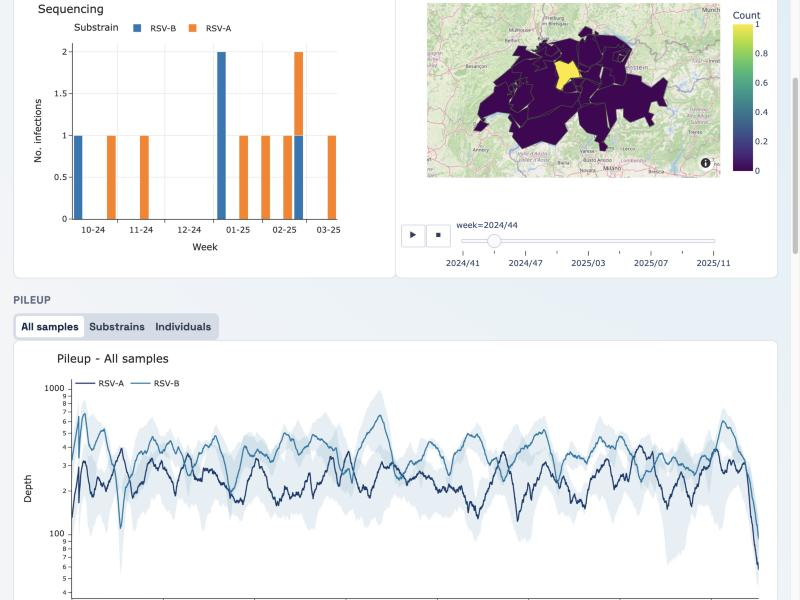
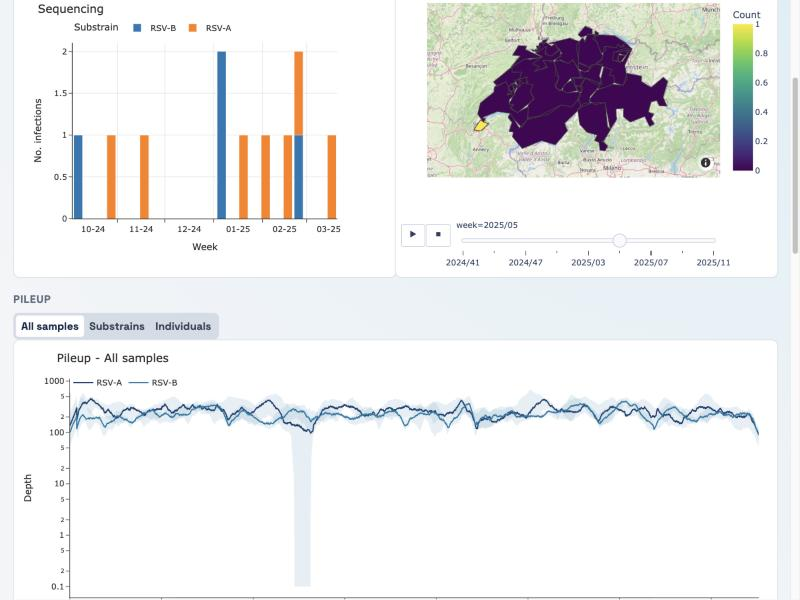
Tutorial website: add Codespaces buttons, hide localhost preview
- The dashboard preview in Part 2 points to 127.0.0.1, which only works
  while the notebook runs; its output is now removed from the website.
- Each notebook and the start page explain that the website is read-only
  and link to a one-click Codespaces launch.
- Updated RSV screenshot to show the planted G-gene coverage gap.

diff --git a/tutorial/README.md b/tutorial/README.md
@@ -13,7 +13,9 @@ Every step is a notebook cell you can run, inspect and edit. All outputs go to `
 ## Open the tutorial
 
 **Option A — GitHub Codespaces (nothing to install).**
-On the repository page: *Code → Codespaces → Create codespace*. The environment is built automatically from `.devcontainer/`. Open `tutorial/01_bioinformatics.ipynb` and pick the `revseq-tutorial` kernel. When Part 2 starts the dashboard, set port 4001 to *Public* in the *Ports* tab so the embedded trees can load.
+[![Open in GitHub Codespaces](https://github.com/codespaces/badge.svg)](https://codespaces.new/charlynebuerki/ReVSeq-dashboard?quickstart=1)
+
+Click the button (or, on the repository page, *Code → Codespaces → Create codespace*). The environment is built automatically from `.devcontainer/`. Open `tutorial/01_bioinformatics.ipynb` and pick the `revseq-tutorial` kernel. When Part 2 starts the dashboard, set port 4001 to *Public* in the *Ports* tab so the embedded trees can load.
 
 **Option B — your computer** (macOS or Linux, [conda](https://conda-forge.org/download/) required):
 
